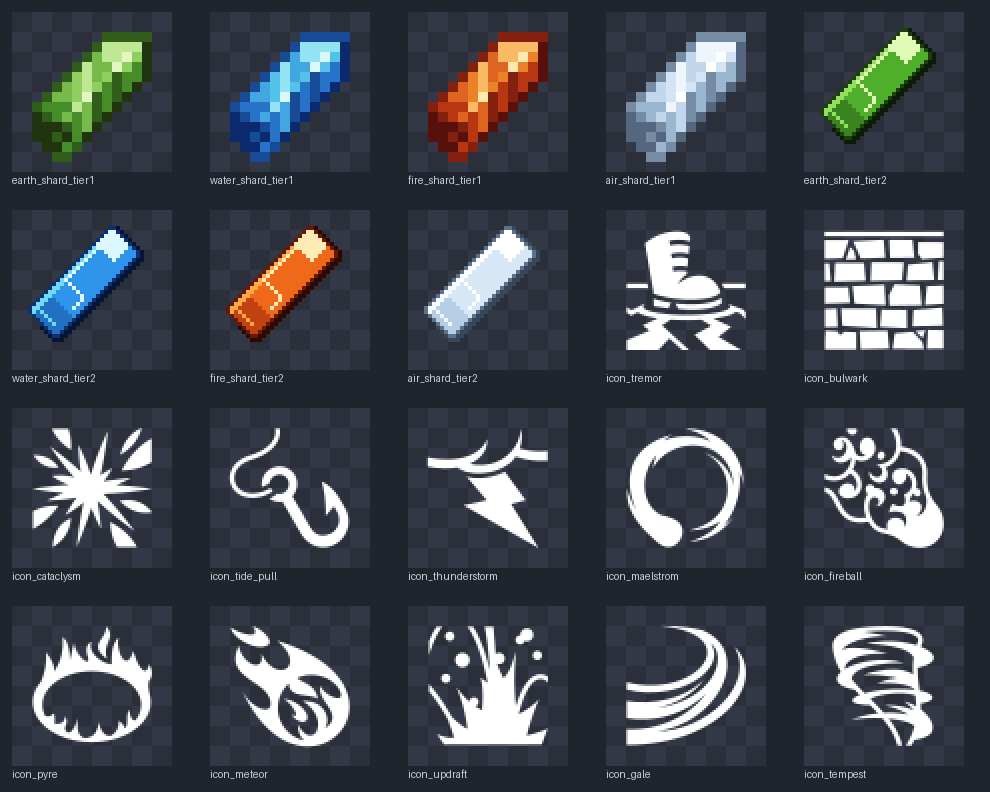
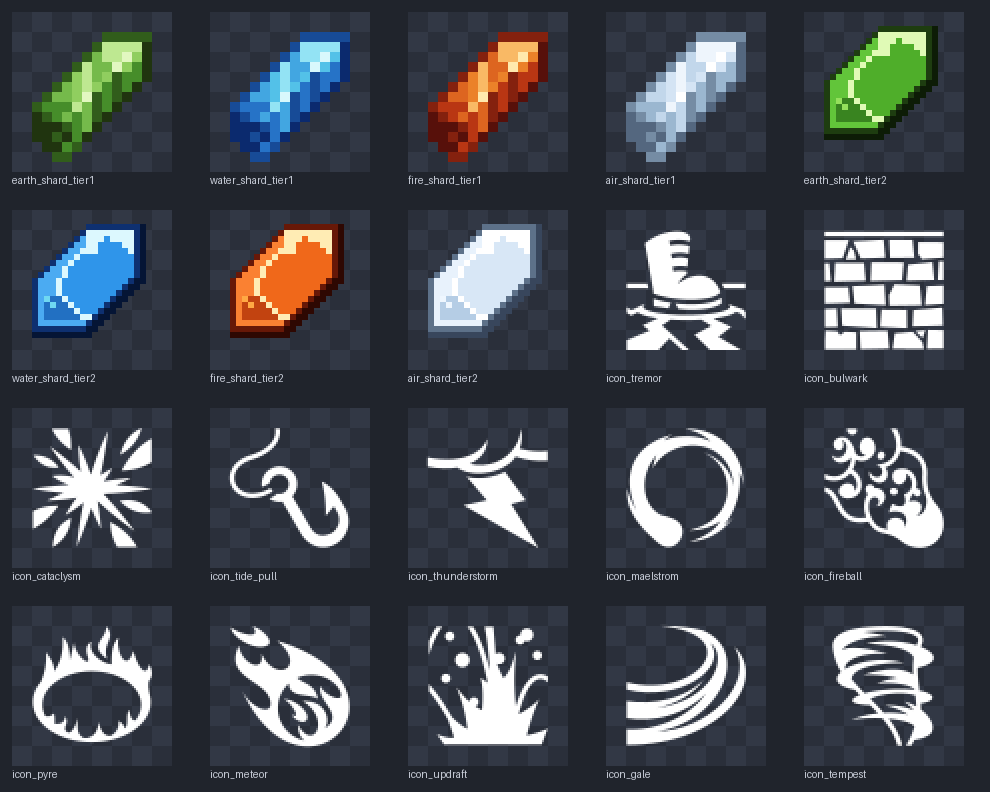
Match gem to reference silhouette; add particle signatures
- The tier 2 gem is now a faithful 24x24 transcription of the reference
  art's actual silhouette: a sheared bar (flat top, vertical right side,
  stepped lower-right, flat bottom, vertical left, stepped upper-left)
  with the big pale cut face and its notch, a lit facet strip inside the
  upper-left edge, the floating Z sweep with one crossing stroke, a dim
  panel pinned under it, and the dark drop edge wrapping right/bottom.
  Every feature is an explicit editable cell list in gen_textures.py.
- Contact sheet now scales any texture size by an integer factor.
- DESIGN.md: every ability and ultimate now specifies a vanilla-particle
  signature (e.g. Maelstrom's spinning whirlpool of splash/bubble helix
  arms around the caster), with a preamble noting particles are the
  public tell now that ability messages are caster-only.

Claude-Session: https://claude.ai/code/session_01HYH4gL5ioHXoyQ3myV4UkH

diff --git a/resourcepack/gen_textures.py b/resourcepack/gen_textures.py
@@ -80,70 +80,87 @@ def gradient_map(img, stops):
 # Roles: D drop edge, Od dark edge, Ol lit edge, B body, M dim panel,
 # L soft light, H bright highlight.
 GEM_PALETTES = {
-    "earth": {"D": "#0d1c06", "Od": "#1e3d10", "Ol": "#94e05c", "B": "#4fae2a",
+    "earth": {"D": "#0d1c06", "Od": "#1e3d10", "Ol": "#62c53a", "B": "#4fae2a",
               "M": "#398420", "L": "#94e05c", "H": "#e0fab6"},
-    "water": {"D": "#051535", "Od": "#0e3070", "Ol": "#6fd8f2", "B": "#2f95ea",
+    "water": {"D": "#051535", "Od": "#0e3070", "Ol": "#4babf2", "B": "#2f95ea",
               "M": "#2270c2", "L": "#6fd8f2", "H": "#dcf8fe"},
-    "fire":  {"D": "#2e0802", "Od": "#671807", "Ol": "#ffa844", "B": "#f0681a",
+    "fire":  {"D": "#2e0802", "Od": "#671807", "Ol": "#fa8132", "B": "#f0681a",
               "M": "#c24310", "L": "#ffa844", "H": "#ffecb4"},
-    "air":   {"D": "#38465c", "Od": "#5d7189", "Ol": "#f4faff", "B": "#d8e7f6",
+    "air":   {"D": "#38465c", "Od": "#5d7189", "Ol": "#e8f2fc", "B": "#d8e7f6",
               "M": "#b5cde5", "L": "#eef6fe", "H": "#ffffff"},
 }
 
 # Reference colourway (the art the gem was transcribed from), used only
 # for eyeballing against the original — not shipped as an element.
-GEM_REFERENCE = {"D": "#1c0c33", "Od": "#371a63", "Ol": "#b678f2", "B": "#8a30e8",
+GEM_REFERENCE = {"D": "#1c0c33", "Od": "#371a63", "Ol": "#9f52f0", "B": "#8a30e8",
                  "M": "#6f2ad0", "L": "#b678f2", "H": "#e8d3fc"}
 
 
 def draw_gem(pal):
-    """32x32 transcription of the reference gem.
+    """24x24 transcription of the reference gem.
 
-    A diagonal band running bottom-left -> top-right (s = x+y across the
-    band, d = x-y along it), flat 45-degree cut faces at both ends, a
-    dark outline with a lit bevel inside the upper-left edge, a pale
-    highlight: the top cut face plus a Z sweep (down the bevel, kink
-    across the body, tail along the dark edge), a dim panel and echo
-    streak at the bottom-left, and a darkest drop edge outside the
-    lower-right for thickness.
+    The silhouette is a sheared bar: flat horizontal top, straight
+    vertical right side, a 1:1 staircase down the lower-right, flat
+    bottom, vertical left side, and a staircase back up the upper-left.
+    Inside: a big pale arch across the top end (with a V notch of body),
+    a pale Z sweep down the lit side that kinks across to the dark edge,
+    a lit bevel inside the upper-left/left/bottom rim, an echo streak
+    fencing off the dim bottom-left panel, and a darkest drop edge
+    outside the right/lower-right/bottom for thickness.
     """
     pal = {k: c(v) for k, v in pal.items()}
-    N = 32
+    N = 24
     img = Image.new("RGBA", (N, N), (0, 0, 0, 0))
     px = img.load()
 
-    def s(x, y):
-        return x + y
+    top = [(x, 1) for x in range(11, 20)]
+    right = [(19, y) for y in range(2, 10)]
+    lr_stairs = [(18, 10), (17, 11), (16, 12), (15, 13),
+                 (14, 14), (13, 15), (12, 16), (11, 17)]
+    bottom = [(x, 18) for x in range(2, 11)]
+    left = [(2, y) for y in range(10, 18)]
+    ul_stairs = [(10, 2), (9, 3), (8, 4), (7, 5),
+                 (6, 6), (5, 7), (4, 8), (3, 9)]
+    outline = set(top + right + lr_stairs + bottom + left + ul_stairs)
 
-    def d(x, y):
-        return x - y
+    # interior = flood fill from the centre; 1:1 stairs are tight for a
+    # 4-connected fill, so no leaks
+    interior, queue = set(), [(11, 9)]
+    while queue:
+        (x, y) = queue.pop()
+        if (x, y) in interior or (x, y) in outline or not (0 <= x < N and 0 <= y < N):
+            continue
+        interior.add((x, y))
+        queue += [(x + 1, y), (x - 1, y), (x, y + 1), (x, y - 1)]
+    shape = outline | interior
 
-    cells = [(x, y) for y in range(N) for x in range(N)
-             if 20 <= s(x, y) <= 34 and -21 <= d(x, y) <= 21]
-    outline = {(x, y) for (x, y) in cells
-               if s(x, y) in (20, 34) or abs(d(x, y)) == 21}
-    interior = [c_ for c_ in cells if c_ not in outline]
-
-    shape = set(cells)
     drop = set()
-    for (x, y) in outline:
-        if s(x, y) == 34 or d(x, y) == 21 or (d(x, y) == -21 and s(x, y) >= 27):
-            for (dx, dy) in ((1, 1), (1, 0), (0, 1)):
-                if (x + dx, y + dy) not in shape:
-                    drop.add((x + dx, y + dy))
+    for (x, y) in right + lr_stairs + bottom + [(19, 1)]:
+        for (dx, dy) in ((1, 0), (0, 1), (1, 1)):
+            if (x + dx, y + dy) not in shape:
+                drop.add((x + dx, y + dy))
 
-    # big pale patch across the whole top end, stopping short of the dark
-    # side; long sweep hugging the lit edge past the midpoint, kinking
-    # across to the dark edge with a short tail; long echo line fencing
-    # off the dim bottom-left end
-    face = {c_ for c_ in interior if d(*c_) >= 13 and s(*c_) <= 29}
-    bevel = {c_ for c_ in interior if s(*c_) in (21, 22) and d(*c_) < 13}
-    leg = [(17, 5), (16, 6), (15, 7), (14, 8), (13, 9),
-           (12, 10), (11, 11), (10, 12), (9, 13)]
-    kink = [(10, 14), (11, 15), (12, 16), (13, 17)]
-    tail = [(13, 18), (12, 19), (11, 20)]
-    sweep = set(leg + kink + tail)
-    echo = {(2, 20), (3, 21), (4, 22), (5, 23), (6, 24)}
+    # pale arch across the top end: two full rows, then legs down each
+    # side leaving a V notch of body in the middle
+    face = ({(x, 2) for x in range(11, 19)}
+            | {(x, 3) for x in range(11, 19) if x != 14}
+            | {(11, 4), (12, 4), (11, 5), (12, 5), (17, 4), (18, 4), (18, 5)})
+    # Z sweep: pale 1px line floating ~2 cells inside the lit edge,
+    # kinking at mid-height into one crossing stroke that lands on the
+    # dark staircase, with a short tail riding up it
+    leg = [(10, 5), (9, 6), (8, 7), (7, 8), (7, 9), (6, 10), (6, 11), (6, 12)]
+    crossing = [(7, 13), (8, 14), (9, 15), (10, 16), (11, 16)]
+    sweep = set(leg + crossing)
+    # lit facet: the filled strip between the upper-left staircase/wall
+    # and the leg, plus a 1px rim inside the wall and bottom edge
+    strip_rows = {3: (10, 10), 4: (9, 10), 5: (8, 9), 6: (7, 8), 7: (6, 7),
+                  8: (5, 6), 9: (4, 6), 10: (3, 5), 11: (3, 5), 12: (3, 5)}
+    bevel = ({(x, y) for y, (a, b) in strip_rows.items() for x in range(a, b + 1)}
+             | {(3, y) for y in range(13, 18)} | {(x, 17) for x in range(4, 11)})
+    # small pale accent where the dim panel meets the kink
+    echo = {(4, 13), (5, 14)}
+    # dim panel pinned under the crossing stroke
+    dim = {(x, y) for y in range(13, 17) for x in range(4, 10) if x < y - 6}
 
     for (x, y) in drop:
         if 0 <= x < N and 0 <= y < N:
@@ -153,11 +170,11 @@ def draw_gem(pal):
     for (x, y) in interior:
         if (x, y) in face or (x, y) in sweep:
             px[x, y] = pal["H"]
-        elif (x, y) in bevel:
-            px[x, y] = pal["Ol"]
         elif (x, y) in echo:
             px[x, y] = pal["L"]
-        elif d(x, y) <= -12:
+        elif (x, y) in bevel:
+            px[x, y] = pal["Ol"]
+        elif (x, y) in dim:
             px[x, y] = pal["M"]
         else:
             px[x, y] = pal["B"]
@@ -234,12 +251,10 @@ def main():
             for tx in range(0, tile_px, 20):
                 if (tx + ty) // 20 % 2:
                     tdraw.rectangle([tx, ty, tx + 19, ty + 19], fill=c("#323845"))
-        if img.size == (16, 16):
-            big = img.resize((tile_px, tile_px), Image.NEAREST)
-            tile.alpha_composite(big)
-        else:
-            big = img.resize((128, 128), Image.NEAREST)
-            tile.alpha_composite(big, (16, 16))
+        k = max(1, tile_px // img.width)
+        big = img.resize((img.width * k, img.height * k), Image.NEAREST)
+        off = (tile_px - big.width) // 2
+        tile.alpha_composite(big, (off, off))
         sheet.alpha_composite(tile, (gx + pad, gy + pad))
         draw.text((gx + pad, gy + pad + tile_px + 2), name, fill=c("#c8cdd8"))
     sheet_path = os.path.join(HERE, "contact_sheet.png")

diff --git a/DESIGN.md b/DESIGN.md
@@ -119,6 +119,8 @@ Ability messages are **client-sided** — only the caster sees them. Nothing is 
 
 ## 5. The four elements
 
+**Every ability has a particle signature.** Ability messages are caster-only (§4), so particles and sound are the *public* language of a fight — the thing everyone else reads. Each ability below lists its signature. All of them use vanilla particle types only (they render for every client with no resource-pack support), and each effect should stay under ~200 particles per tick — loud payoffs, cheap idle loops.
+
 ### 🟫 Earth Shard
 
 *Moss green. Zone denial and a shield you can weaponise.*
@@ -131,10 +133,14 @@ Ability messages are **client-sided** — only the caster sees them. Nothing is 
 **Ability 1 (RMB) — Tremor** · 25s
 Ground slam. Enemies within 6 blocks are launched upward, take 4 damage, and get Slowness II for 4s. Does not affect the caster.
 
+*Particles:* an expanding ground ring of stone `BLOCK` crack particles racing from the caster to the 6-block edge, with a burst of dust kicked up under each launched enemy.
+
 **Ability 2 (⇧LMB) — Bulwark** · 35s
 Summons a 5-wide × 3-tall stone wall 3 blocks in front of the player. The wall **continuously repositions to face wherever the caster looks**, orbiting them at a fixed 3-block distance. It blocks projectiles and bodies.
 
 **Punch the wall** and it launches forward at ~8 blocks/second for up to 15 blocks, shoving any player or mob it contacts along with it and dealing 3 damage. It dissipates on hitting terrain or reaching max range. Lifetime 12s either way. Recast dismisses early.
+
+*Particles:* the wall sheds a light drizzle of its own `BLOCK` dust while orbiting; launched, it plows a bow-wave of stone crack + `CRIT` particles and dissipates in a dust burst.
 
 ---
 
@@ -150,12 +156,16 @@ Summons a 5-wide × 3-tall stone wall 3 blocks in front of the player. The wall 
 **Ability 1 (RMB) — Tide Pull** · 20s
 Fires a 15-block hook. Hits a player or mob → yanks them to you. Hits a block → yanks you to it. No damage.
 
+*Particles:* the hook line is drawn in `DRIPPING_WATER` + `BUBBLE_POP` particles as it flies; on impact a `SPLASH` burst, and a bubble stream trails whoever gets yanked.
+
 **Ability 2 (⇧LMB) — Thunderstorm** · 40s
 A storm cloud forms above the caster and **follows them for 10s**. While active, every melee hit the caster lands calls a lightning strike on the target dealing **2 true damage** (bypasses armour, absorption, and i-frames) on top of normal weapon damage.
 
 - **No internal cooldown per target** — every hit procs
 - Lightning is visual only (`strikeLightningEffect`) — no fires, no collateral damage
 - Only affects entities the caster hits. No AoE, no friendly fire
+
+*Particles:* the cloud itself is drawn from `CLOUD` particles crackling with `ELECTRIC_SPARK`; each proc uses the vanilla lightning flash, so it needs no extra effects.
 
 > This is the highest sustained damage in the plugin by design. Watch it in playtesting; if it dominates, raise the cooldown to 60s before touching the damage.
 
@@ -172,6 +182,8 @@ A storm cloud forms above the caster and **follows them for 10s**. While active,
 
 **Ability 1 (RMB) — Fireball** · 20s
 Explosive projectile. 6 damage, 1.5-block blast, ignites on hit. **Does not break blocks.**
+
+*Particles:* a `FLAME` + `LAVA` spark trail in flight; the blast is a single `EXPLOSION` followed by a shower of ember-orange `DUST`.
 
 **Ability 2 (⇧LMB) — Pyre** · 30s
 Ignites a 5-block-radius ring of flame at the caster's feet that **stays there for 10s**. It does not follow the caster.
@@ -194,6 +206,8 @@ Only the **topmost solid block of each column** is converted — raycast down fr
 
 Fixed in place, so it's a commitment. Leave it and you lose the buff — but the scorched ground marks the territory for the full ten seconds.
 
+*Particles:* the ring itself is `FLAME` jets with `SMALL_FLAME` filler licking between them; enemies crossing the line flash `LAVA` pops, and the converted floor smokes with thin `CAMPFIRE_COSY_SMOKE` columns.
+
 ---
 
 ### ⬜ Air Shard
@@ -208,6 +222,8 @@ Fixed in place, so it's a commitment. Leave it and you lose the buff — but the
 **Ability 1 (RMB) — Updraft** · 25s
 Launches **all other players and mobs within 6 blocks** 5 blocks straight up. The caster is unaffected and stays grounded.
 
+*Particles:* a `GUST` burst at the caster's feet — the breeze wind-charge effect — and a rising column of `CLOUD` puffs under each launched target.
+
 > Nerfed from 8 blocks / 20s. Five blocks is enough to interrupt, break a combo, and reposition someone, but survivable without armour. Because Air takes zero fall damage and the target does, any height increase scales asymmetrically into a kill button.
 
 **Ability 2 (⇧LMB) — Gale** · 30s
@@ -215,6 +231,8 @@ A cone of wind 8 blocks long and 60° wide in the aimed direction:
 
 - Enemies in the cone are knocked back hard, take 2 damage, and get Nausea for 3s
 - **The caster is launched in the opposite direction** — a hard recoil away from where they aimed
+
+*Particles:* the cone sweeps visibly with `GUST` and streaking `CLOUD` particles out to its full length; the caster's recoil pops a white `SWEEP_ATTACK` flash and leaves a short cloud wake.
 
 Air's escape. Aim at a pursuer to push them off and rocket yourself clear in one motion. Aim at the ground to launch upward.
 
@@ -272,12 +290,12 @@ Progress is tracked persistently and shown in `/info`, with chat notifications a
 | | Tier 1 | Tier 2 |
 |---|---|---|
 | **Name** | Earth Shard | Earth Shard *(unchanged)* |
-| **Shape** | The vanilla amethyst shard texture, recoloured | Diagonal cut gem (from the reference art), 32×32 |
+| **Shape** | The vanilla amethyst shard texture, recoloured | Diagonal cut gem (from the reference art), 24×24 |
 | **Colour** | Flat element colour, vanilla-style facet shading — no gradients | Same colour, with a pale cut face and highlight sweep |
 
 **Tier 1** is literally the vanilla amethyst shard texture run through a per-element recolour (a luminance gradient map: each flat vanilla colour maps to one flat element colour). Green for Earth, ocean blue for Water, ember orange for Fire, pale white for Air. Nothing is redrawn, so it always reads as "a shard" at a glance.
 
-**Tier 2** is the **cut gem** from the project's reference art: a diagonal bar with flat cut ends, a dark drop edge for thickness, a lit bevel along the top edge, and a bright Z-shaped highlight sweep — a raw crystal that has been cut and polished. It's authored at 32×32 (vs the shard's 16×16), which also makes Tier 2 items visibly crisper in the inventory. Same flat-colour rule: one hue per element, shading by discrete facet tones, no gradients.
+**Tier 2** is the **cut gem** transcribed from the project's reference art: a sheared bar (flat top, vertical sides, stepped diagonals), a dark drop edge for thickness, a big pale cut face at the top with a notch, a lit facet inside the upper-left edge, and a pale Z-shaped highlight sweep — a raw crystal that has been cut and polished. It's authored at 24×24 (vs the shard's 16×16), so it renders visibly crisper in the inventory. Same flat-colour rule: one hue per element, shading by discrete facet tones, no gradients.
 
 > Provenance: Tier 1 derives from the game's own texture, which is standard resource-pack practice. The gem is transcribed from our own reference art, and the ability icons are CC BY 3.0 glyphs from game-icons.net (credited in `resourcepack/README.md`) — nothing is lifted from another plugin.
 
@@ -416,14 +434,22 @@ Bukkit.broadcast(Component.text(player.getName() + " has made the advancement ")
 ### 🟫 Earth — Cataclysm
 Stone spikes erupt in a 10-block radius. 8 damage, enemies rooted 3s, caster gains Resistance II for 8s. Display entities, gone after 3s.
 
+*Particles:* every spike erupts through a geyser of stone `BLOCK` crack particles; one `EXPLOSION_EMITTER` at the epicentre, and rooted enemies shed a slow drip of dust for the root duration.
+
 ### 🟦 Water — Maelstrom
 A whirlpool at the caster's position for 6s, 12-block radius. Enemies inside are pulled continuously toward the centre, given Slowness III, and take drowning damage regardless of water.
+
+*Particles:* **a spinning whirlpool around the player** — two helical arms of `SPLASH` and `BUBBLE_COLUMN_UP` particles rotating around the caster and tightening toward the centre, while `NAUTILUS` particles stream inward along the pull, so victims can read both the edge and the direction of the drag.
 
 ### 🟥 Fire — Meteor
 Call a meteor at the crosshair, up to 30 blocks. 12 damage in a 6-block radius, ignites everything hit, burning ground for 8s. **No terrain damage.**
 
+*Particles:* the meteor falls as a `FLAME` + `LAVA` comet trailing a smoke column; impact fires an `EXPLOSION_EMITTER` and rains ember `DUST` over the radius, and the burning ground shimmers with `SMALL_FLAME` for its 8 seconds.
+
 ### ⬜ Air — Tempest
 True flight for 8s. Every enemy within 8 blocks is continuously lifted and takes 1 damage per second. Flight ends abruptly — safe, since Air ignores falling.
+
+*Particles:* a slow cyclone of `CLOUD` particles spirals around the flying caster; each lifted enemy stands in their own small `GUST` column, and the flight's end puffs a falling ring of cloud.
 
 ---
 

diff --git a/resourcepack/README.md b/resourcepack/README.md
@@ -13,8 +13,8 @@ python3 gen_textures.py
 - `assets/elementary/textures/item/` — 8 shard textures: 4 elements × 2 tiers.
   Tier 1 (16×16) is the **vanilla amethyst shard** recoloured per element with
   a luminance gradient map (flat colours, vanilla facet shading). Tier 2
-  (32×32) is the **cut gem** transcribed from the project's reference art —
-  pale cut face, lit bevel, Z-highlight sweep, dark drop edge. See
+  (24×24) is the **cut gem** transcribed from the project's reference art —
+  pale cut face, lit facet, Z-highlight sweep, dark drop edge. See
   DESIGN.md §6.
 - `assets/elementary/textures/hud/` — 12 ability icons (DESIGN.md §3),
   rendered from `icons_svg/` as white-on-transparent 64×64 glyphs so the
